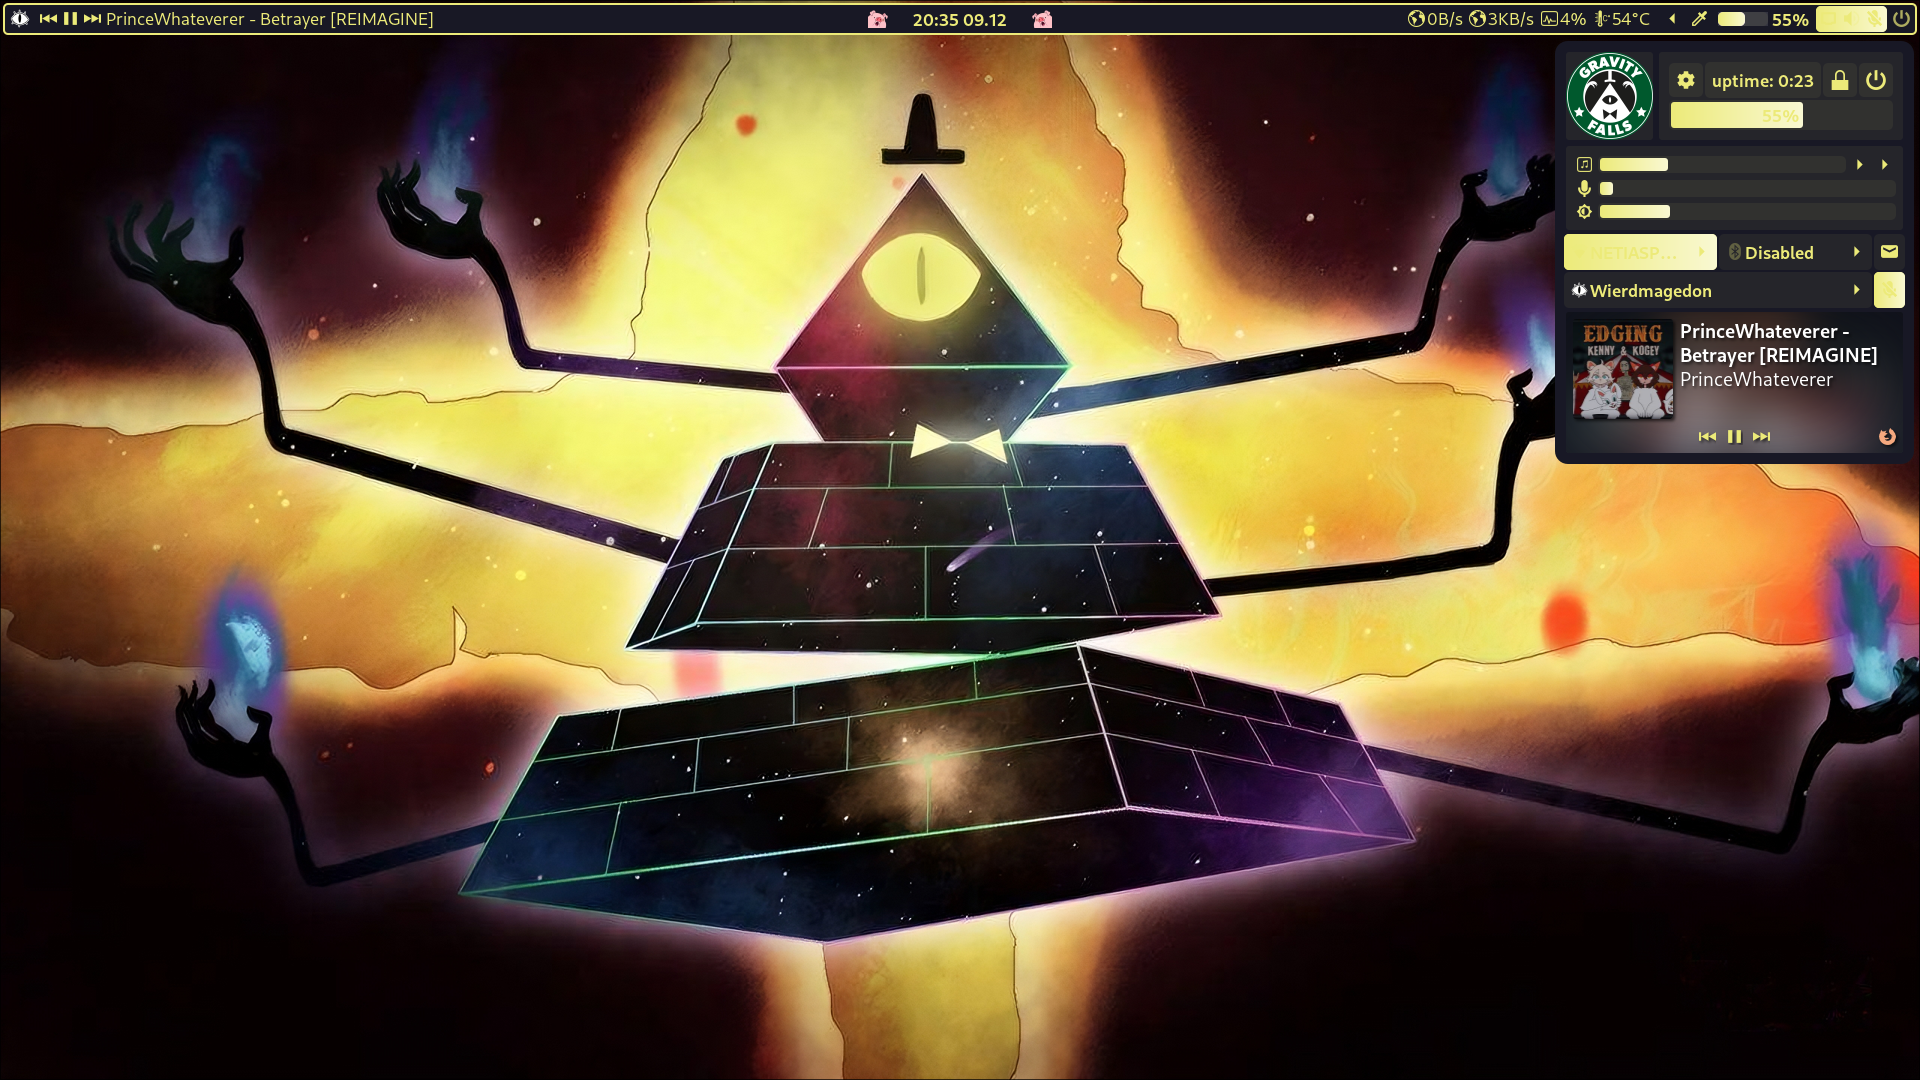
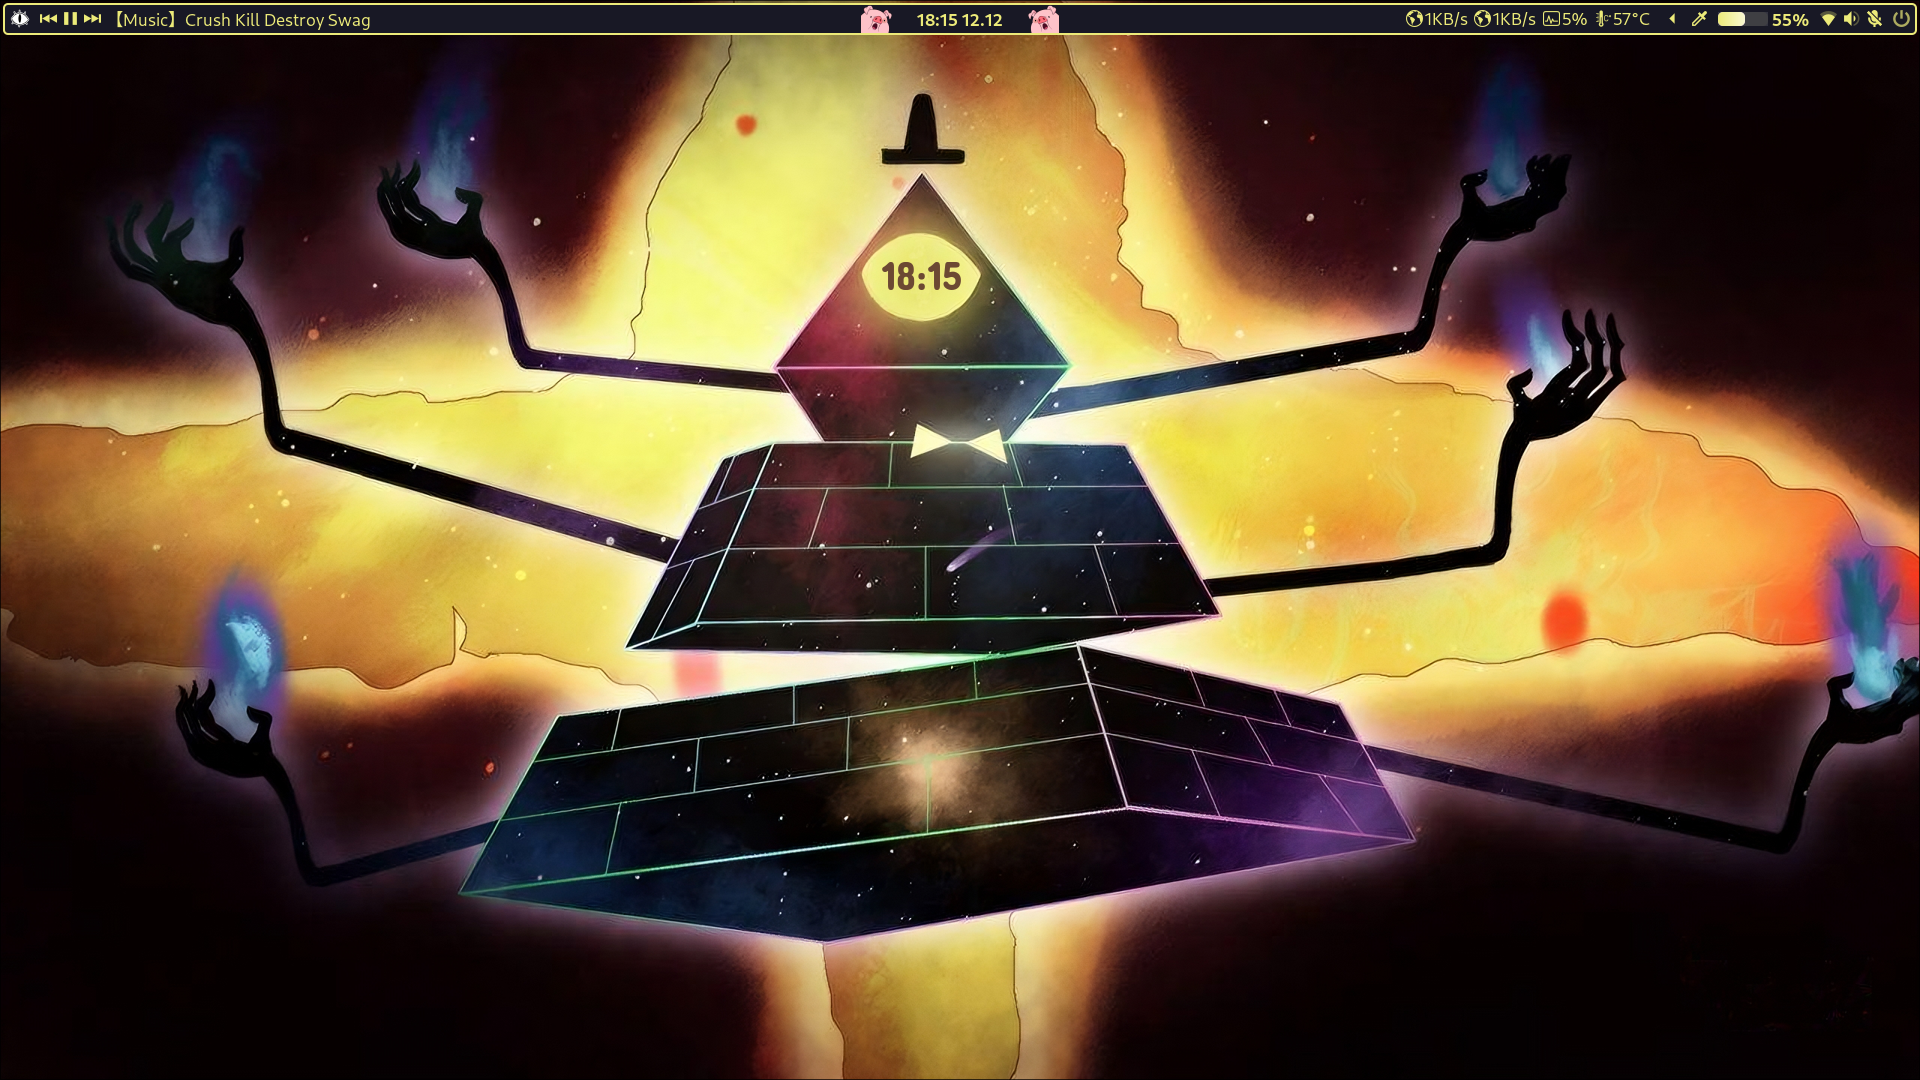
change to widget + working clock

diff --git a/config/ags/js/widget/moon.js b/config/ags/js/widget/moon.js
@@ -1,0 +1,34 @@
+import Widget from 'resource:///com/github/Aylur/ags/widget.js';
+import GLib from 'gi://GLib';
+import options from '../options.js';
+import * as vars from '../variables.js';
+
+const clock = ({interval = 1000,
+    ...rest
+} = {}) => Widget.Label({
+    class_name: 'lclock',
+    ...rest,
+    connections: [[interval, label =>
+        label.label = GLib.DateTime.new_now_local().format(options.clock.main.value),
+    ]],
+});
+
+const updateMargins = (mt, ml) => {
+    return [mt, ml];
+};
+
+export default monitor => Widget.Window({
+    name: `clock${monitor}`,
+    class_name: 'clockmain',
+    layer: 'background',
+    exclusivity: 'ignore',
+    binds: [
+        ['anchor', options.clock.a1, 'value', (a1) => ([a1, 'right'])],
+        ['margins', options.clock.mt, 'value', (mt) => updateMargins(mt, options.clock.ml.value)],
+    ],
+    monitor,
+    child: Widget.Box({
+        class_name: 'wclock',
+        child: clock(),
+    }),
+});

diff --git a/config/ags/js/widget/clock.js b/config/ags/js/widget/clock.js
@@ -17,17 +17,13 @@ const updateMargins = (mt, ml) => {
     return [mt, ml];
 };
 
-const updateAnchor = (a1, a2) => {
-    return [a1, a2];
-};
-
 export default monitor => Widget.Window({
     name: `clock${monitor}`,
     class_name: 'clockmain',
     layer: 'background',
     exclusivity: 'ignore',
     binds: [
-        ['anchor', options.clock.a1, 'value', (a1) => updateAnchor(a1, options.clock.a2.value)],
+        ['anchor', options.clock.a1, 'value', (a1) => ([a1, 'right'])],
         ['margins', options.clock.mt, 'value', (mt) => updateMargins(mt, options.clock.ml.value)],
     ],
     monitor,

diff --git a/config/ags/js/themes.js b/config/ags/js/themes.js
@@ -432,9 +432,8 @@ export default [
     "clock.font": 'Concert One',
     "clock.fontsize": '40',
     "clock.color": '#6C4933',
-    "clock.ml": '878',
+    "clock.ml": '958',
     "clock.mt": '250',
-    "clock.a2": 'left',
     "clock.a1": 'top',
     "border.color.": "#ECEA79",
     "border.opacity": 100,

diff --git a/config/ags/js/main.js b/config/ags/js/main.js
@@ -10,7 +10,7 @@ import Verification from './powermenu/Verification.js';
 import { init } from './settings/setup.js';
 import { forMonitors } from './utils.js';
 import options from './options.js';
-import Clock from './clock/clock.js';
+import Clock from './widget/clock.js';
 
 init();
 

diff --git a/config/ags/js/options.js b/config/ags/js/options.js
@@ -245,8 +245,6 @@ export default {
         mt: Option('0', {
             'scssFormat': v => `"${v}"`,
         }),
-        a2: Option('right', {
-        }),
         a1: Option('top', {
         }),
     },
